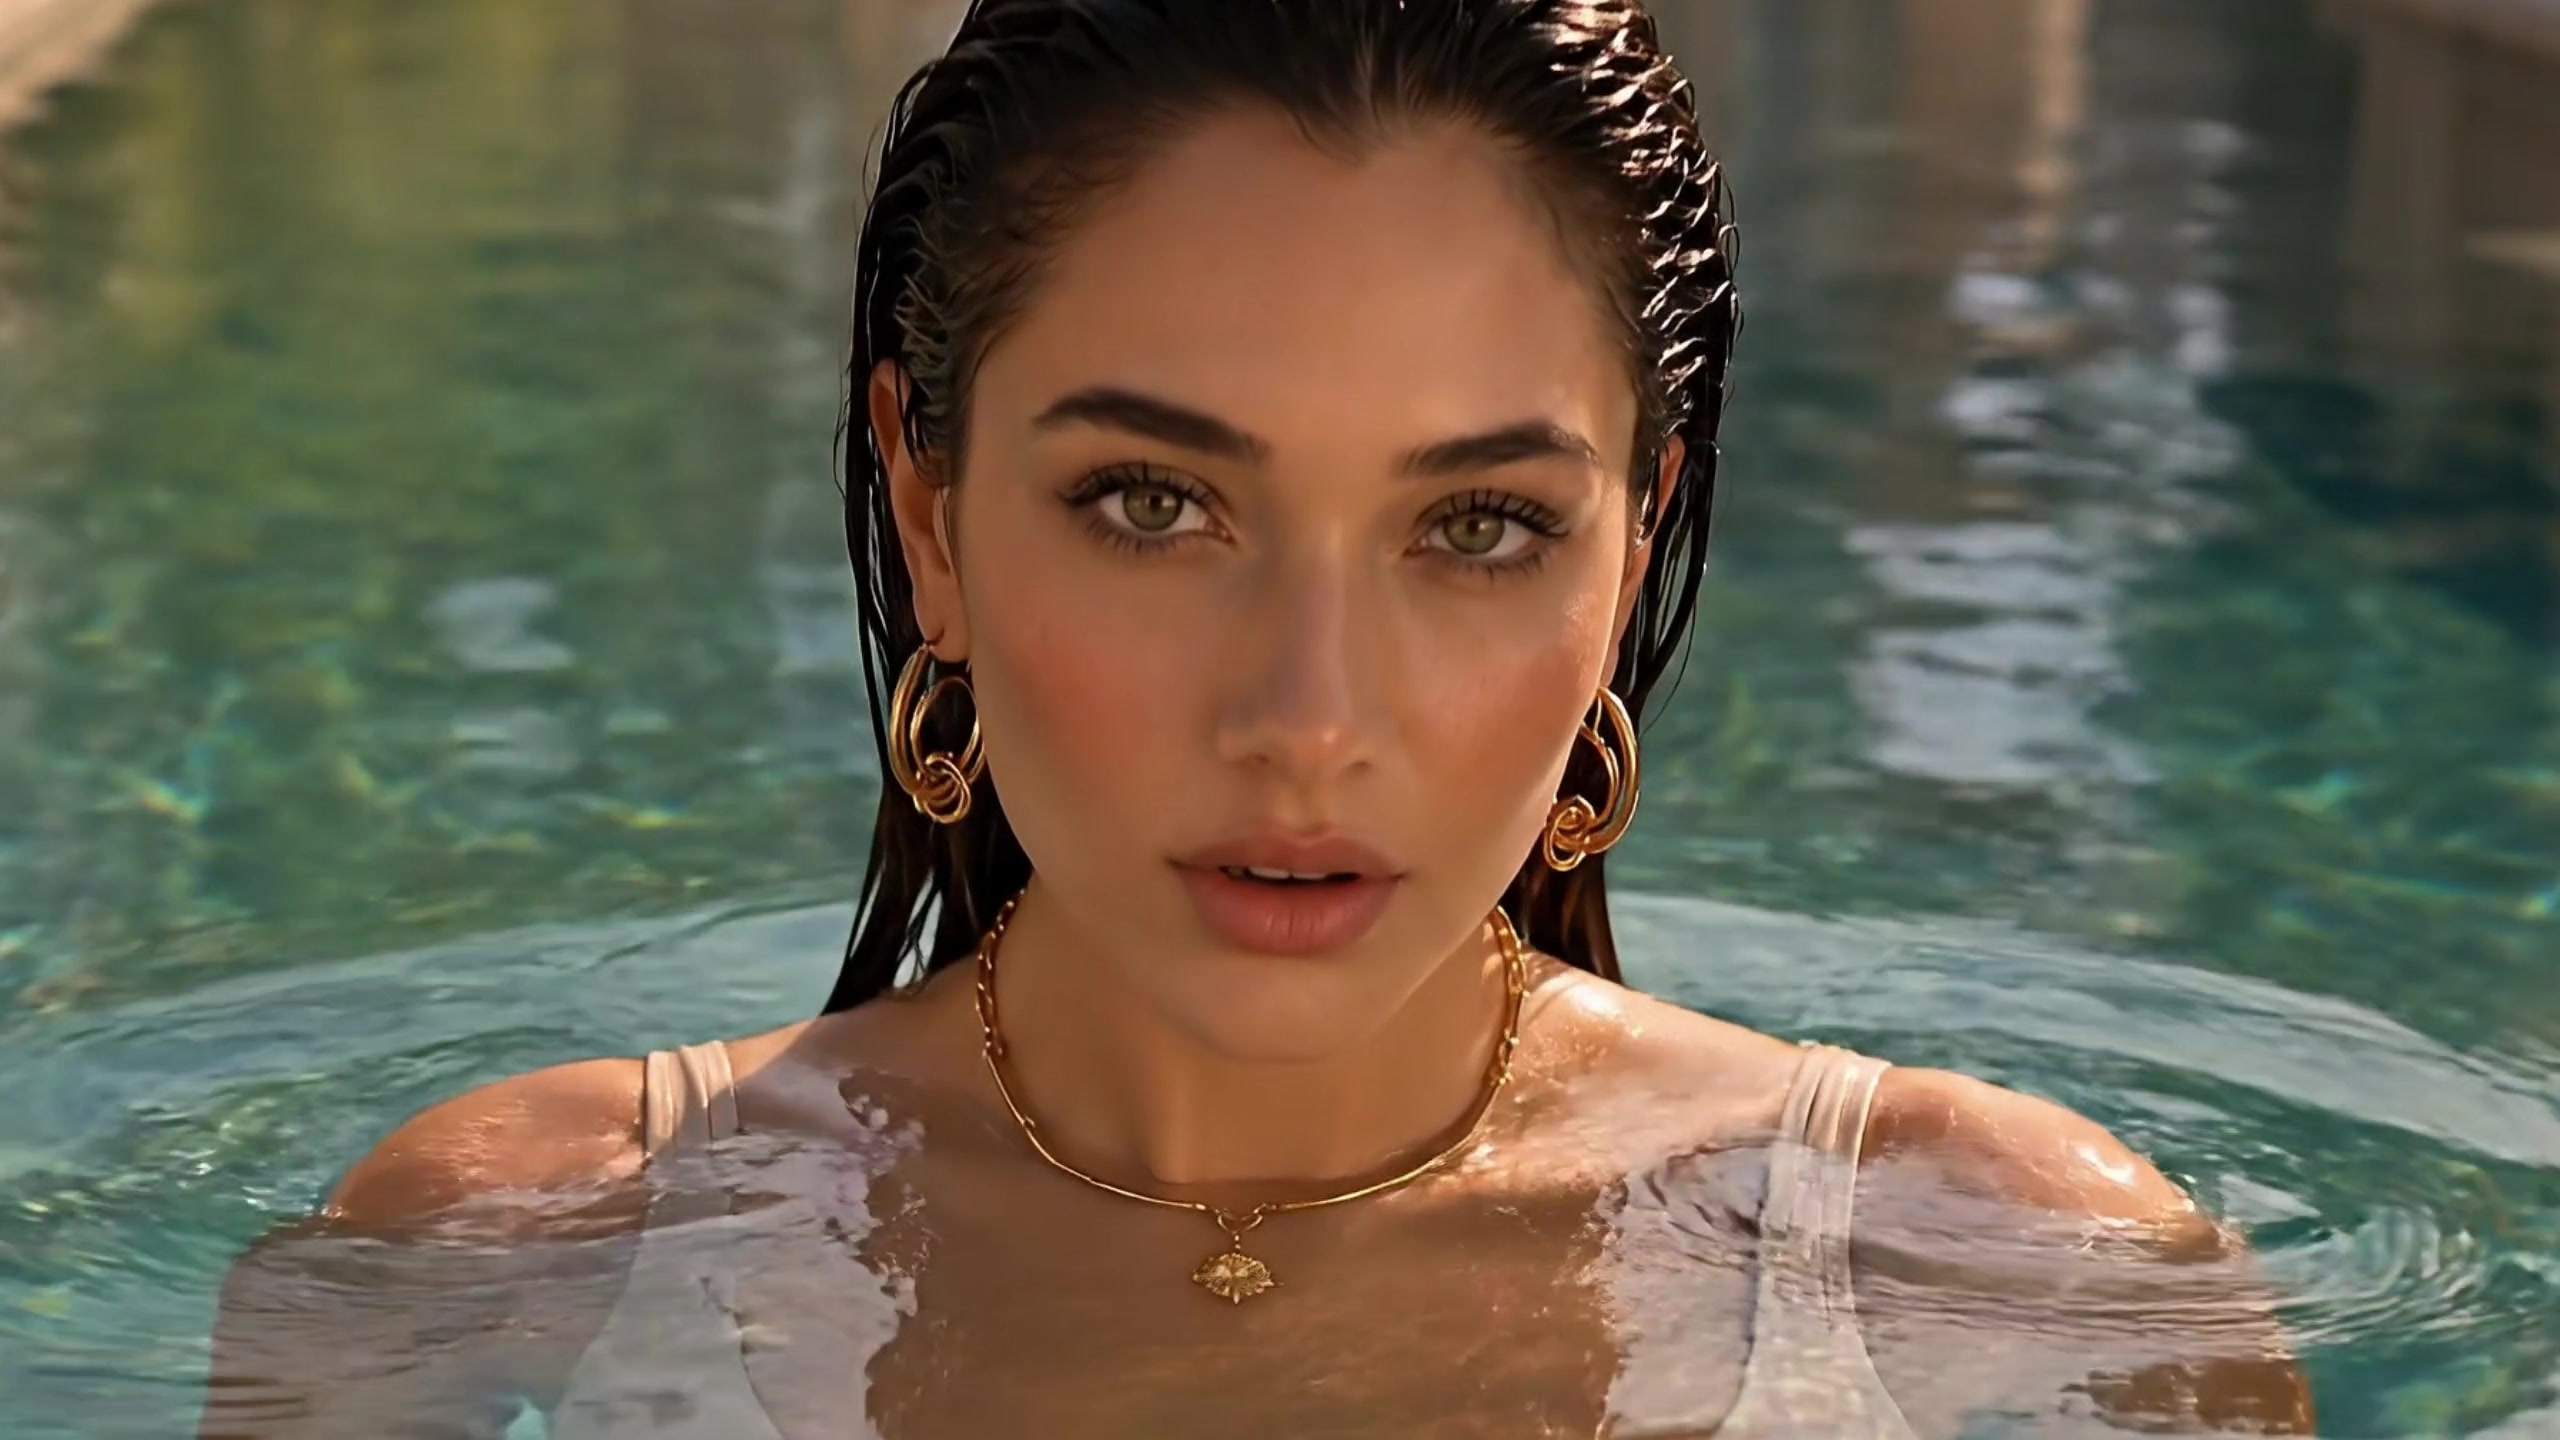
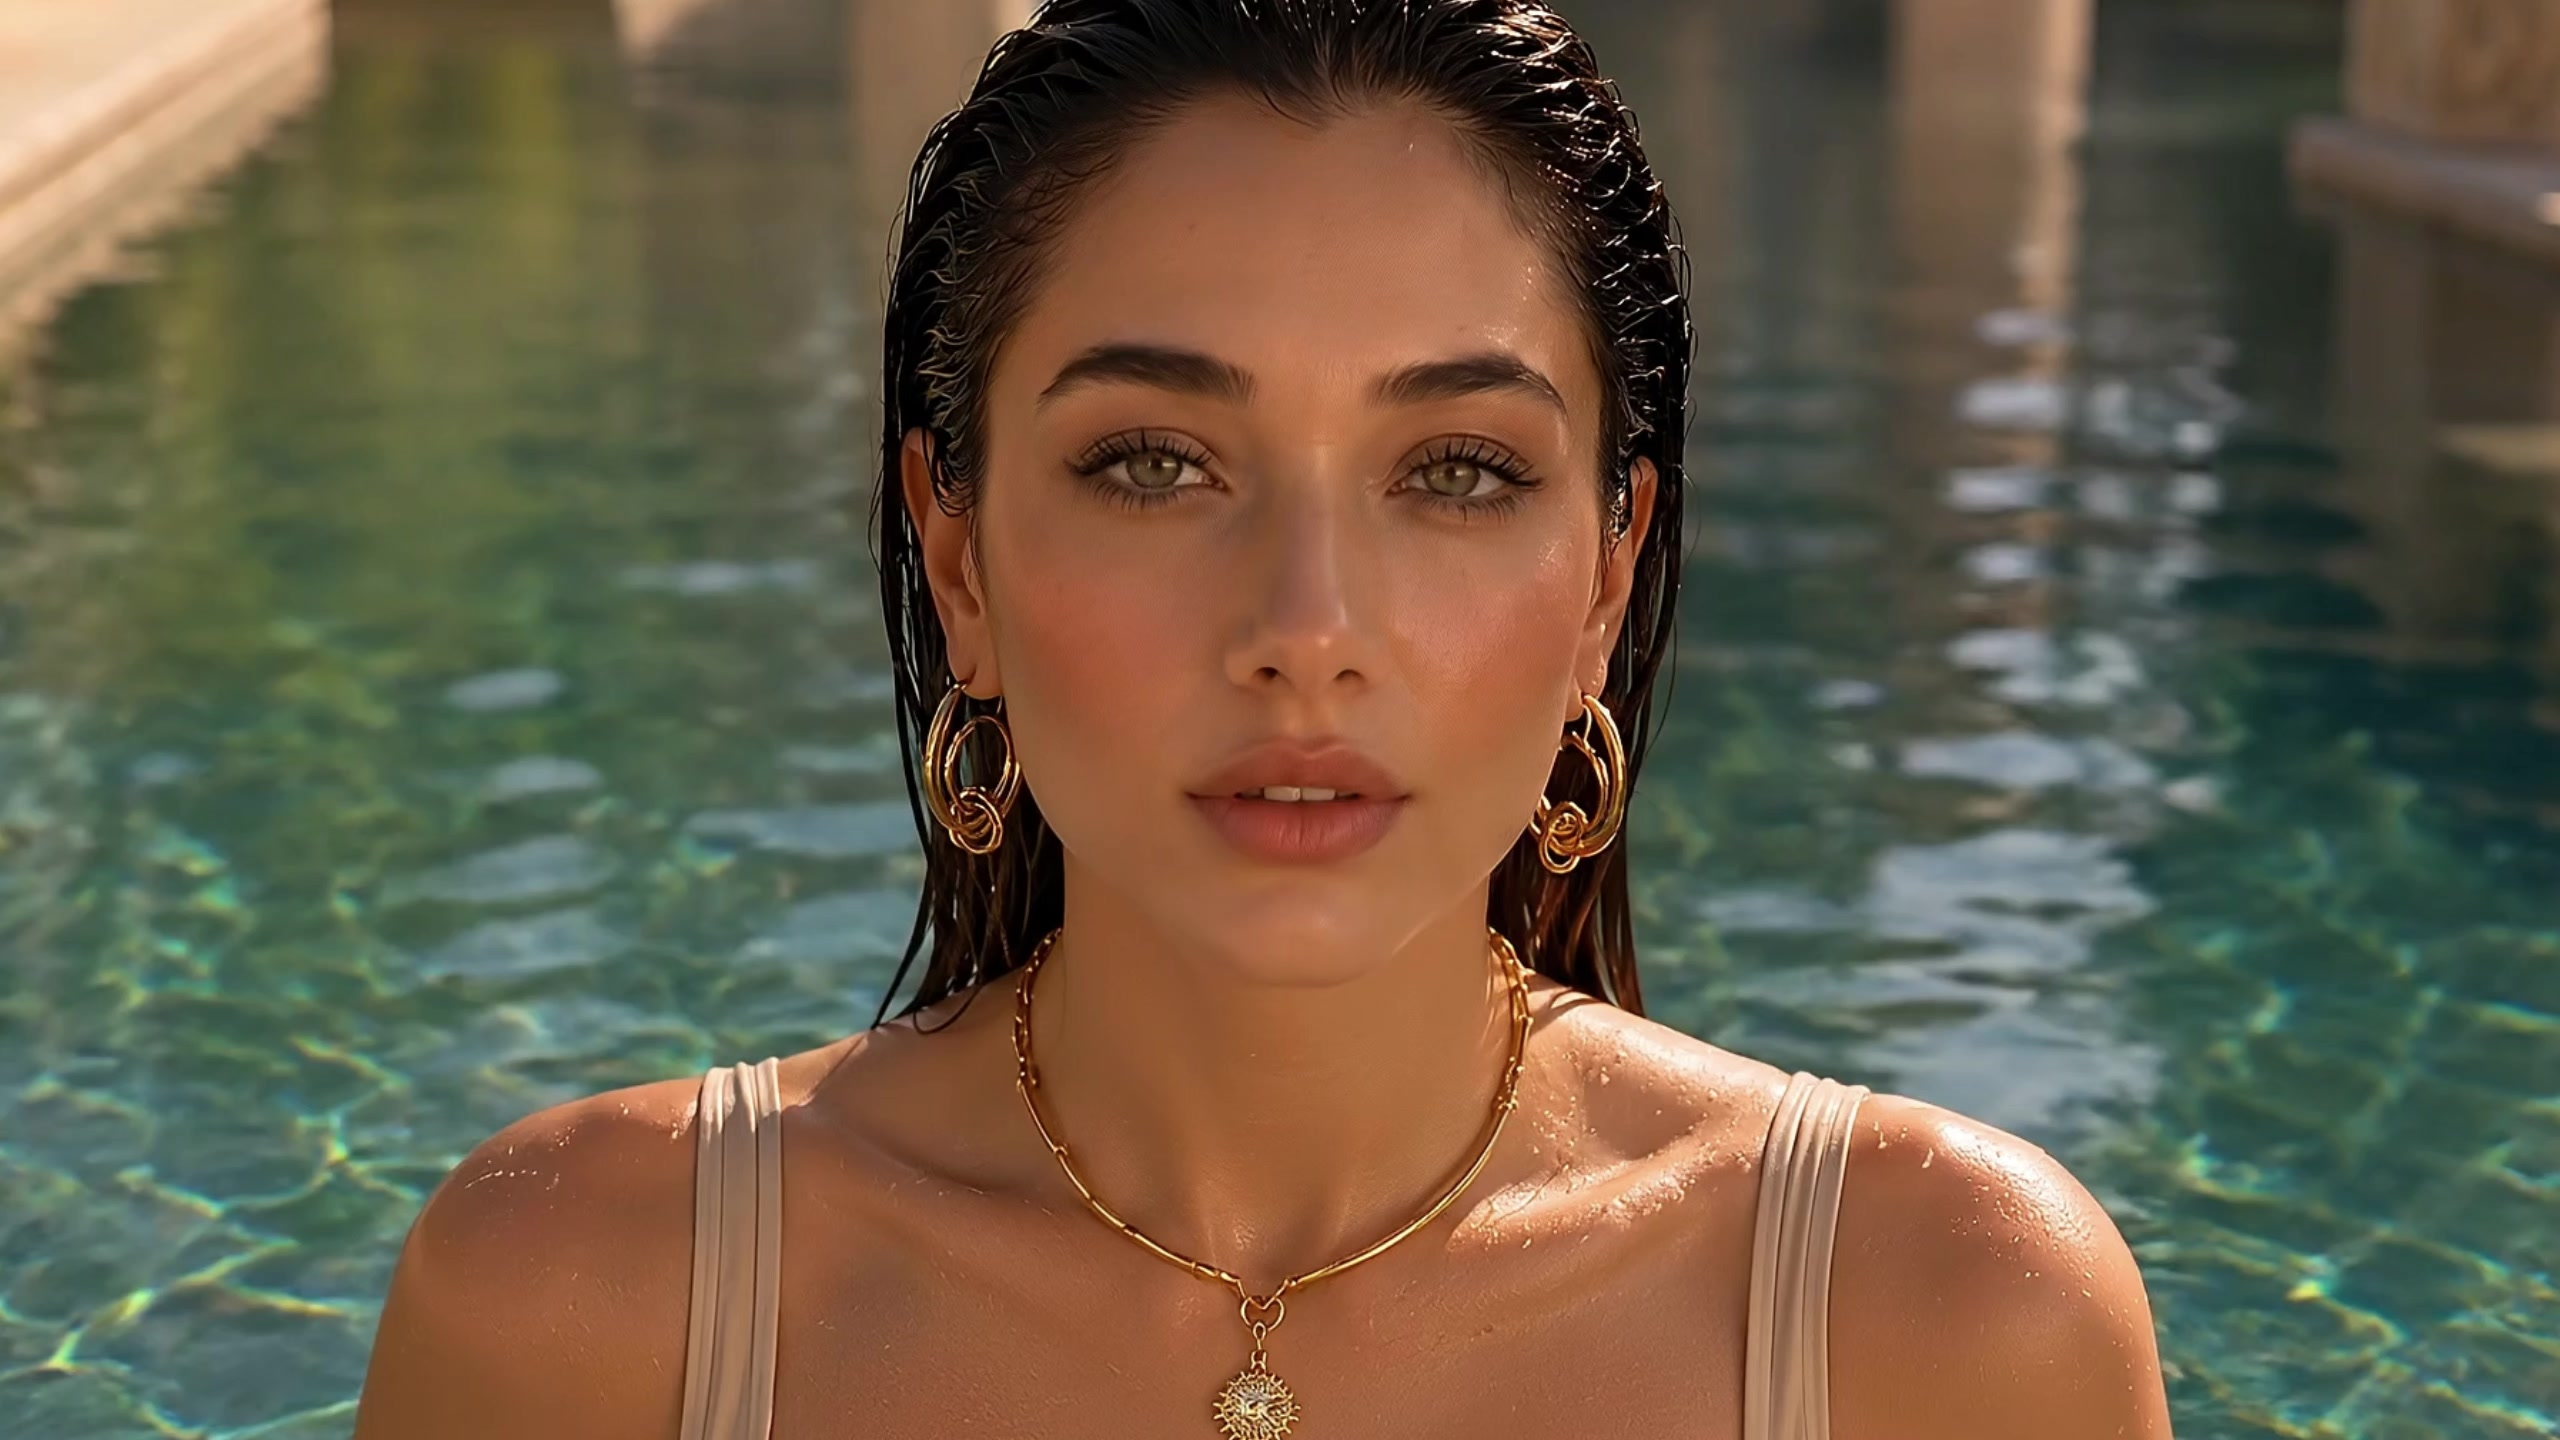
Optimize hero background video loading with responsive sources and first-frame poster

diff --git a/src/pages/HomePage.jsx b/src/pages/HomePage.jsx
@@ -2,7 +2,9 @@ import React, { useEffect, useState } from 'react'
 import { Link } from 'react-router-dom'
 import Navbar from '../components/Navbar'
 import Footer from '../components/Footer'
-import heroVideo from '../assets/hero-bg.mp4'
+import heroVideo2K from '../assets/hero-2k.mp4'
+import heroVideo1080p from '../assets/hero-1080p.mp4'
+import heroVideoMobile from '../assets/hero-mobile.mp4'
 import heroPoster from '../assets/hero-poster.jpg'
 import { updateSEO } from '../utils/seo'
 
@@ -71,7 +73,9 @@ export default function HomePage() {
             poster={heroPoster}
             className="w-full h-full object-cover scale-105"
           >
-            <source src={heroVideo} type="video/mp4" />
+            <source src={heroVideo2K} media="(min-width: 1440px)" type="video/mp4" />
+            <source src={heroVideo1080p} media="(min-width: 768px)" type="video/mp4" />
+            <source src={heroVideoMobile} type="video/mp4" />
           </video>
           <div className="absolute inset-0 bg-primary/20"></div>
         </div>
